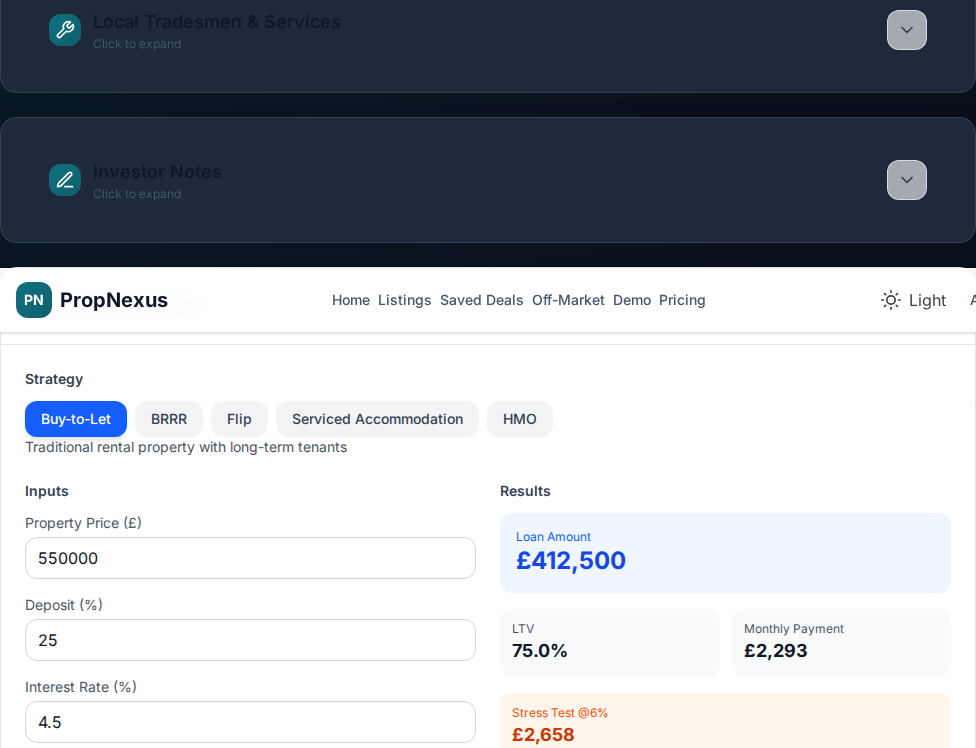
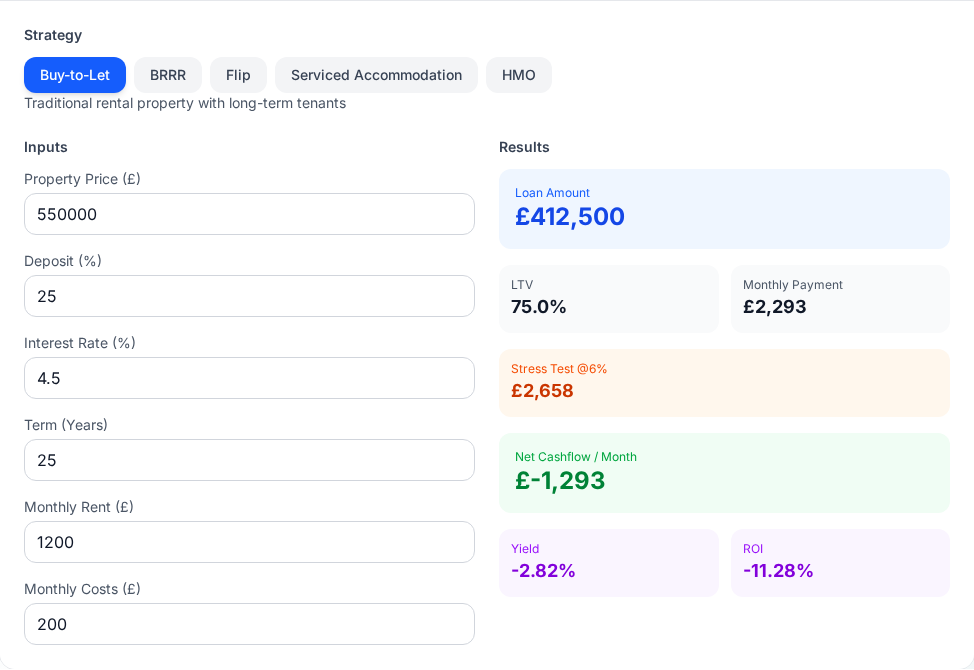
Refresh demo gallery screenshots

diff --git a/frontend/lib/demoContent.ts b/frontend/lib/demoContent.ts
@@ -61,33 +61,26 @@ export const DEMO_SAMPLE_PROPERTIES: DemoSampleProperty[] = [
 export const DEMO_PREMIUM_SCREENSHOT_PROPERTY_ID =
   '57d1a817-17fa-461a-bde5-3bad8843e349';
 
-export const DEMO_PREMIUM_FEATURES = [
-  {
-    src: '/images/demo/screenshots/premium-analytics.png',
-    alt: 'Investment analytics section from a real PropNexus property detail page',
-    title: 'Investment Analytics',
-    description:
-      'Live investment summary and calculator views captured from a working property detail page.',
-  },
-  {
-    src: '/images/demo/screenshots/premium-tradesmen.png',
-    alt: 'Local tradesmen and services section from a real PropNexus property detail page',
-    title: 'Tradesmen Services',
-    description:
-      'Nearby builders, plumbers, electricians, roofers, and surveyors shown against live property coordinates.',
-  },
+export const DEMO_FEATURE_GALLERY = [
   {
     src: '/images/demo/screenshots/premium-ai-score.png',
     alt: 'AI deal score section from a real PropNexus property detail page',
     title: 'AI Deal Score',
     description:
-      'Stored score breakdown, category bars, and scoring version metadata from a real listing record.',
+      'Live score, scoring breakdown, and category graph captured from the property detail experience.',
   },
   {
     src: '/images/demo/screenshots/premium-area-intel.png',
     alt: 'Area insights section from a real PropNexus property detail page',
     title: 'Area Intel',
     description:
-      'Live postcode intelligence including rent, yield, average price, crime, and schools data.',
+      'Postcode intelligence with rent, yield, average price, crime, schools, and local comparables.',
+  },
+  {
+    src: '/images/demo/screenshots/premium-analytics.png',
+    alt: 'Investment analytics section from a real PropNexus property detail page',
+    title: 'Investment Analytics',
+    description:
+      'Scenario-based calculations for leverage, payments, stress testing, yield, and return planning.',
   },
 ];

diff --git a/frontend/app/demo/page.tsx b/frontend/app/demo/page.tsx
@@ -2,7 +2,7 @@ import Link from 'next/link';
 import Image from 'next/image';
 import { Metadata } from 'next';
 import { GalleryImage } from '@/components/GalleryImage';
-import { DEMO_PREMIUM_FEATURES, DEMO_SAMPLE_PROPERTIES } from '@/lib/demoContent';
+import { DEMO_FEATURE_GALLERY, DEMO_SAMPLE_PROPERTIES } from '@/lib/demoContent';
 import { formatPercent, getRoiDisplay, getYieldPercent } from '@/lib/normalizeProperty';
 
 export const dynamic = "force-dynamic";
@@ -133,20 +133,20 @@ export default function DemoPage() {
         </div>
       </section>
 
-      {/* Premium Features Preview Gallery */}
+      {/* Product Gallery */}
       <section className="py-16 px-4 sm:px-6 lg:px-8 bg-slate-50 dark:bg-slate-900/30">
         <div className="max-w-7xl mx-auto">
           <div className="text-center mb-12">
             <h2 className="text-3xl font-bold text-slate-900 dark:text-white mb-4">
-              Premium Features Preview
+              Product Walkthrough
             </h2>
             <p className="text-slate-600 dark:text-slate-400">
-              Real captures from working property detail sections that are live in the product today
+              Clear live captures from the current property detail experience
             </p>
           </div>
 
           <div className="space-y-8">
-            {DEMO_PREMIUM_FEATURES.map((feature, index) => (
+            {DEMO_FEATURE_GALLERY.map((feature, index) => (
               <GalleryImage
                 key={feature.title}
                 index={index + 1}
@@ -155,6 +155,7 @@ export default function DemoPage() {
                 alt={feature.alt}
                 title={feature.title}
                 description={feature.description}
+                eyebrow="Live Product Capture"
               />
             ))}
           </div>

diff --git a/frontend/tests/screenshots.spec.ts b/frontend/tests/screenshots.spec.ts
@@ -32,9 +32,19 @@ async function ensureLightMode(page: Page) {
   if (label?.toLowerCase().includes('switch to light mode')) {
     await themeToggle.click();
   }
+
+  await expect
+    .poll(async () => {
+      const rootClass = await page.evaluate(() => document.documentElement.className);
+      return rootClass.includes('light');
+    })
+    .toBe(true);
 }
 
 async function openPropertyForScreenshot(page: Page) {
+  await page.addInitScript(() => {
+    localStorage.setItem('propnexus-theme', 'light');
+  });
   await page.setViewportSize({ width: 1600, height: 1400 });
   await page.goto(`/property/${DEMO_PREMIUM_SCREENSHOT_PROPERTY_ID}`, {
     waitUntil: 'domcontentloaded',
@@ -65,7 +75,7 @@ test.describe('Demo Screenshots', () => {
     await openPropertyForScreenshot(page);
     await openCollapsible(page, 'Investment Calculator');
 
-    const calculator = page.locator('#calculator-content').locator('..');
+    const calculator = page.locator('#calculator-content');
     await expect.soft(calculator).toBeVisible();
 
     await calculator.screenshot({
@@ -93,6 +103,8 @@ test.describe('Demo Screenshots', () => {
     await expect(aiScore).toContainText('AI Deal Score');
     await expect(aiScore).toContainText('Version');
     await expect(aiScore).toContainText('73', { timeout: 5000 });
+    await expect(aiScore).toContainText('Rental Yield', { timeout: 5000 });
+    await expect(aiScore).toContainText('ROI Potential', { timeout: 5000 });
 
     await aiScore.screenshot({
       path: 'public/images/demo/screenshots/premium-ai-score.png',

diff --git a/frontend/components/GalleryImage.tsx b/frontend/components/GalleryImage.tsx
@@ -9,6 +9,7 @@ interface GalleryImageProps {
   alt: string;
   title: string;
   description: string;
+  eyebrow?: string;
 }
 
 export function GalleryImage({
@@ -18,6 +19,7 @@ export function GalleryImage({
   alt,
   title,
   description,
+  eyebrow = 'Product Walkthrough',
 }: GalleryImageProps) {
   const imageOrderClass = layout === 'reverse' ? 'lg:order-2' : 'lg:order-1';
   const contentOrderClass = layout === 'reverse' ? 'lg:order-1' : 'lg:order-2';
@@ -55,7 +57,7 @@ export function GalleryImage({
                 {String(index ?? 0).padStart(2, '0')}
               </span>
               <span className="text-xs font-semibold uppercase tracking-[0.28em] text-slate-500 dark:text-slate-400">
-                Premium Feature Preview
+                {eyebrow}
               </span>
             </div>
             <h3 className="text-2xl font-semibold text-slate-900 dark:text-white sm:text-3xl">
